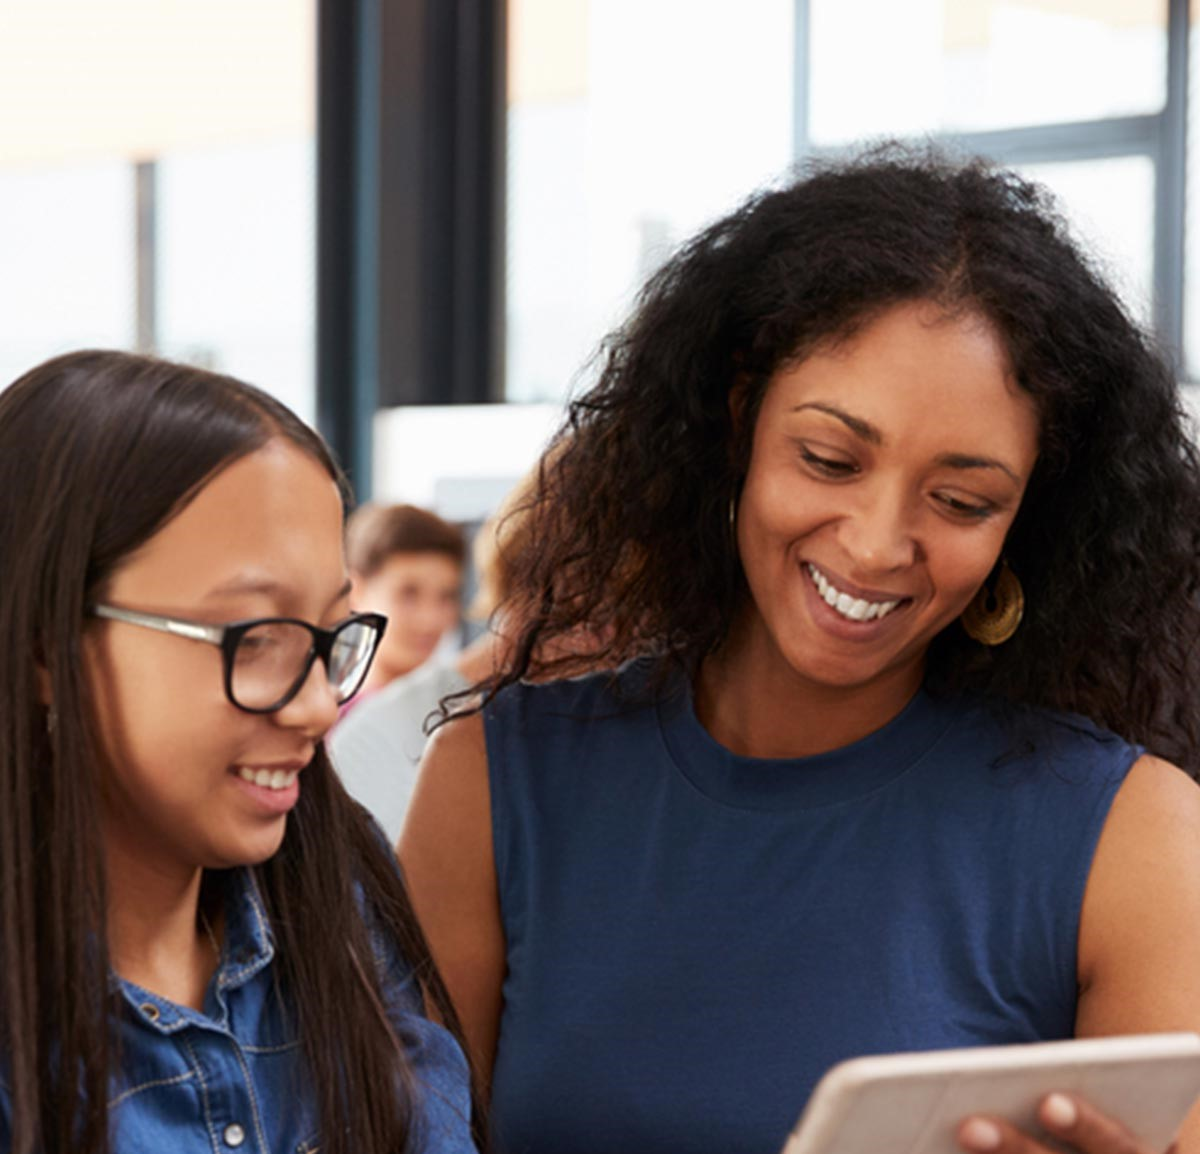
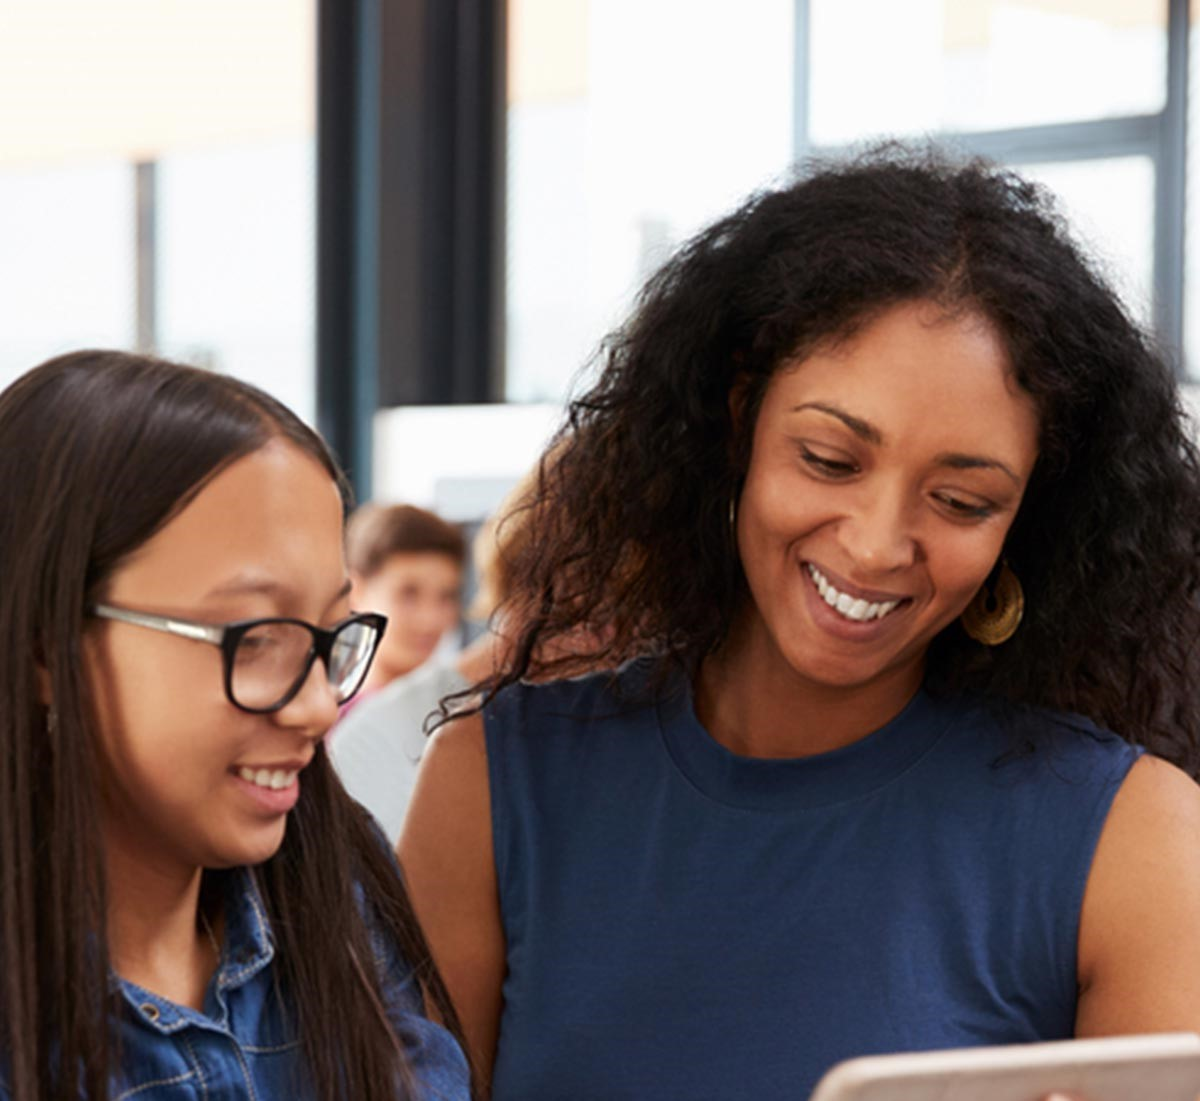
registration ui done

diff --git a/src/Register/RegisterForm.tsx b/src/Register/RegisterForm.tsx
@@ -68,11 +68,11 @@ const RegisterForm = () => {
   };
   return (
     <>
-      <div className="grid grid-cols-1 md:grid-cols-2 items-center ">
+      <div className="grid grid-cols-1 md:grid-cols-2">
         <div>
-          <img src="img/signup-img.jpg" alt="" height="200px" />
+          <img src="img/signup-img.jpg" alt="" className="h-full" />
         </div>
-        <div className="bg-white  py-2 ps-14 pr-10 h-fit">
+        <div className="bg-white  py-3 px-4 md:px-7 lg:px-12">
           <h3 className="font-medium text-3xl pb-2">User Registration Form</h3>
           <form onSubmit={handleSubmit(onsubmit)}>
             {isLoading ? (
